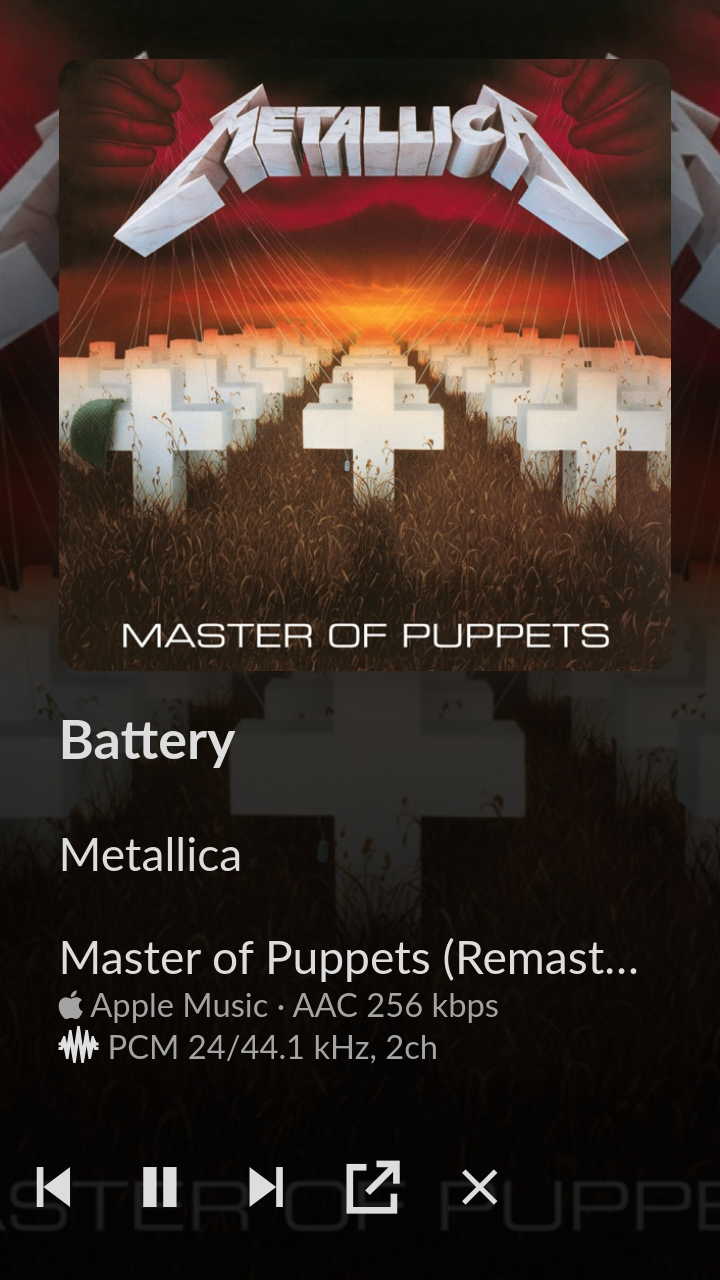
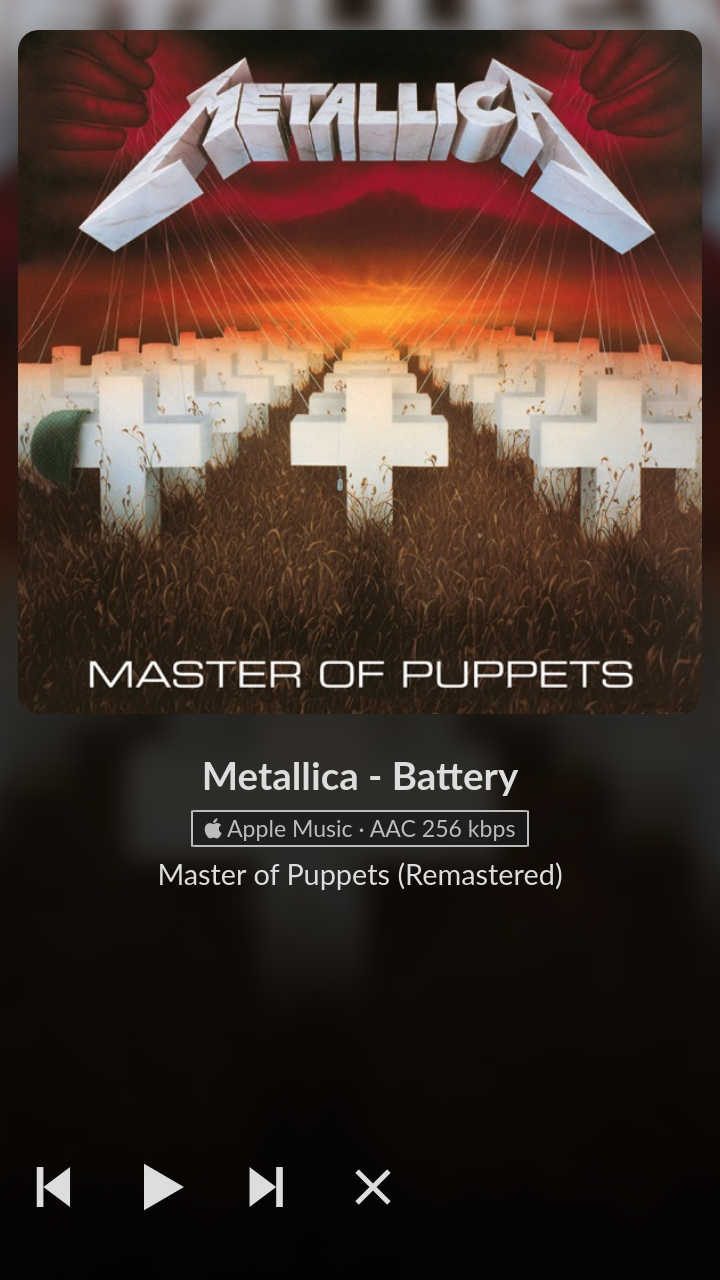
AppleMusic: English texts, tidier renderer screen and Renderers block
- Renderer screen: no "show Apple Music" button; all texts in English.
- Renderers block: Quality line (AAC 256 kbps only), shorter help texts,
  no Open/Close button (the service switch closes Apple Music), sign-out
  confirmation in moOde's own dialog (the browser's confirm() did not fit
  on the local display).

diff --git a/AppleMusic/web/applemusic.js b/AppleMusic/web/applemusic.js
@@ -41,14 +41,14 @@
         // Close the open dropdown menu, like the native view buttons do.
         var open = document.querySelectorAll('.dropdown.open, .btn-group.open');
         for (var i = 0; i < open.length; i++) { open[i].classList.remove('open'); }
-        toast('Apple Music openen…');
+        toast('Opening Apple Music…');
         fetch('applemusic.php?cmd=open', { method: 'POST', cache: 'no-store' })
             .then(function (r) { return r.json(); })
             .then(function (res) {
-                if (!res.ok) { toast('Apple Music kon niet starten'); return; }
-                if (!isLocalDisplay()) { toast('Apple Music staat open op het moOde-scherm'); }
+                if (!res.ok) { toast('Apple Music could not start'); return; }
+                if (!isLocalDisplay()) { toast('Apple Music is open on the moOde display'); }
             })
-            .catch(function () { toast('Apple Music kon niet starten'); });
+            .catch(function () { toast('Apple Music could not start'); });
     }
 
     function addButton() {
@@ -74,8 +74,7 @@
     // ---- Apple Music as a moOde renderer ------------------------------------
     // While Apple Music runs, moOde shows it like AirPlay or Spotify Connect:
     // moOde's own renderer screen (#inpsrc-indicator) with cover, title and
-    // the output format, plus play/pause/next/previous, "show on the Pi
-    // screen" and "close" buttons. Phones and computers only: the Pi's own
+    // the output format, plus play/pause/next/previous and "close" buttons. Phones and computers only: the Pi's own
     // display has Apple Music's player itself, and "‹ moOde" there returns to
     // the normal moOde interface.
     var POLL_MS = 2000;
@@ -100,11 +99,10 @@
 
     function controlsHtml(playing) {
         return '<span id="inpsrc-msg-text">Apple Music Active</span>' +
-            button('prev', 'fa-solid fa-sharp fa-backward-step', 'Vorige') +
-            button('toggle', 'fa-solid fa-sharp ' + (playing ? 'fa-pause' : 'fa-play'), playing ? 'Pauze' : 'Afspelen') +
-            button('next', 'fa-solid fa-sharp fa-forward-step', 'Volgende') +
-            button('show', 'fa-solid fa-sharp fa-arrow-up-right-from-square', 'Apple Music tonen') +
-            button('close', 'fa-regular fa-sharp fa-xmark', 'Apple Music sluiten');
+            button('prev', 'fa-solid fa-sharp fa-backward-step', 'Previous') +
+            button('toggle', 'fa-solid fa-sharp ' + (playing ? 'fa-pause' : 'fa-play'), playing ? 'Pause' : 'Play') +
+            button('next', 'fa-solid fa-sharp fa-forward-step', 'Next') +
+            button('close', 'fa-regular fa-sharp fa-xmark', 'Close Apple Music');
     }
 
     function hideRenderer() {
@@ -151,7 +149,7 @@
         var toggle = document.querySelector('.applemusic-ctl[data-applemusic="toggle"] i');
         if (toggle) {
             toggle.className = 'fa-solid fa-sharp ' + (st.playing ? 'fa-pause' : 'fa-play');
-            toggle.parentNode.setAttribute('aria-label', st.playing ? 'Pauze' : 'Afspelen');
+            toggle.parentNode.setAttribute('aria-label', st.playing ? 'Pause' : 'Play');
         }
     }
 
@@ -170,10 +168,10 @@
         var url, msg = null;
         if (action === 'show') {
             url = 'applemusic.php?cmd=show';
-            if (!isLocalDisplay()) { msg = 'Apple Music staat open op het moOde-scherm'; }
+            if (!isLocalDisplay()) { msg = 'Apple Music is open on the moOde display'; }
         } else if (action === 'close') {
             url = 'applemusic.php?cmd=close';
-            msg = 'Apple Music gesloten';
+            msg = 'Apple Music closed';
         } else {
             url = 'applemusic.php?cmd=control&action=' + encodeURIComponent(action);
         }
@@ -184,7 +182,7 @@
                 if (action === 'close') { render(null); }
                 setTimeout(poll, 700);
             })
-            .catch(function () { toast('Apple Music reageert niet'); });
+            .catch(function () { toast('Apple Music does not respond'); });
     }
 
     document.addEventListener('click', function (ev) {
@@ -217,18 +215,19 @@
             '    <label class="toggle-radio">ON </label>' +
             '    <label class="toggle-radio">OFF</label>' +
             '  </div>' +
-            '  <span class="config-help-static">Apple Music Web on the local display, with moOde\'s ' +
-            '  output chain (CamillaDSP). Requires an Apple Music subscription. When off, Apple Music ' +
-            '  is closed and removed from the Library menu.</span>' +
+            '  <span class="config-help-static">Apple Music Web player on the local display. Requires an ' +
+            '  Apple Music subscription and a local display.</span>' +
             '</div>' +
+            '<label class="control-label">Quality</label>' +
+            '<div class="controls"><span style="display:inline-block;line-height:1.4;padding-top:4px;' +
+            'margin-bottom:var(--config-ctl-margin-bottom, 1em)">AAC 256 kbps only (no lossless in Apple Music Web)</span></div>' +
             '<label class="control-label">Account</label>' +
-            '<div class="controls"><span id="applemusic-account" style="display:inline-block;line-height:29px;' +
+            '<div class="controls"><span id="applemusic-account" style="display:inline-block;line-height:1.4;padding-top:4px;' +
             'margin-bottom:var(--config-ctl-margin-bottom, 1em)">…</span></div>' +
             '<div class="controls">' +
             '  <button type="button" class="btn btn-medium btn-primary config-btn" id="applemusic-signin">Sign in</button>' +
             '  <span class="config-btn-after">Opens Apple\'s sign-in window on the moOde display. Type with a ' +
-            '  USB keyboard on the Pi, or through the remote inspector (see the AppleMusic readme). ' +
-            '  Your password does not pass through moOde.</span>' +
+            '  USB keyboard on the Pi. Your password does not pass through moOde.</span>' +
             '</div>' +
             '<div class="controls">' +
             '  <button type="button" class="btn btn-medium btn-primary config-btn" id="applemusic-signout">Sign out</button>' +

diff --git a/AppleMusic/extension/content.js b/AppleMusic/extension/content.js
@@ -8,7 +8,7 @@
         var btn = document.createElement('button');
         btn.id = 'moode-return';
         btn.type = 'button';
-        btn.setAttribute('aria-label', 'Terug naar moOde');
+        btn.setAttribute('aria-label', 'Back to moOde');
         btn.textContent = '‹ moOde';
         btn.addEventListener('click', function (ev) {
             ev.preventDefault();

diff --git a/AppleMusic/patch_header.py b/AppleMusic/patch_header.py
@@ -14,7 +14,7 @@ from pathlib import Path
 
 BEGIN = "<!-- BEGIN APPLE MUSIC -->"
 END = "<!-- END APPLE MUSIC -->"
-ASSET_VERSION = 9
+ASSET_VERSION = 17
 BODY = [f'<script src="js/applemusic.js?v={ASSET_VERSION}" defer></script>']
 ANCHOR = re.compile(r'^\s*<script src="js/(?:main\.min|scripts-panels)\.js(?:\?[^"]*)?" defer></script>\s*$')
 CONFIG_ANCHOR = re.compile(r'^\s*<script src="js/(?:config\.min|scripts-configs)\.js(?:\?[^"]*)?" defer></script>\s*$')

diff --git a/AppleMusic/readme.md b/AppleMusic/readme.md
@@ -11,7 +11,7 @@ Connect, with cover, title and play/pause/next/previous buttons.
   <img width="350" alt="moOde Library menu with the Apple Music entry" src="assets/moode-library-menu.png" />
   <img width="350" alt="moOde renderer screen showing Apple Music" src="assets/moode-renderer-applemusic.png" />
 </p>
-<sub>Left: <b>Apple Music</b> in moOde's Library view menu. Right: moOde's renderer screen on a phone while Apple Music plays on the Pi, with previous, play/pause, next, show Apple Music and close buttons.</sub><br><br>
+<sub>Left: <b>Apple Music</b> in moOde's Library view menu. Right: moOde's renderer screen on a phone while Apple Music plays on the Pi, with previous, play/pause, next and close buttons.</sub><br><br>
 
 Audio from Apple Music is sent to moOde's `_audioout` ALSA device, so it follows
 the same output chain as MPD: with CamillaDSP enabled the sound passes through
@@ -56,8 +56,9 @@ Run the installer again after a moOde update that replaces `header.php`.
 moOde's **Configure → Renderers** gets an **Apple Music Webplayer** block,
 like AirPlay or Spotify Connect:
 
-- **Service** ON/OFF. Off closes Apple Music and removes it from the Library
+- **Service** ON/OFF (requires an Apple Music subscription and a local display). Off closes Apple Music and removes it from the Library
   menu; the launcher refuses to open it (`APPLEMUSIC_ENABLED=no`).
+- **Quality**: AAC 256 kbps only; Apple Music Web offers no lossless.
 - **Account**: *Signed in* or *Not signed in*, as reported by Apple Music
   (known once Apple Music has been opened since the Pi started).
 - **Sign in** opens Apple's own sign-in window on the moOde display; **Sign
@@ -123,7 +124,6 @@ the renderer screen:
 | Button | Action |
 |---|---|
 | ⏮ ⏯ ⏭ | previous (restarts the song after 3 s) / play-pause / next |
-| ↗ | show Apple Music on the Pi's screen |
 | ✕ | close Apple Music |
 
 The Apple Music extension reports what plays once a second to
